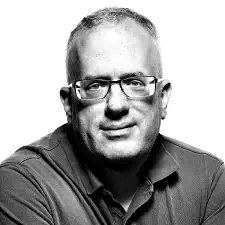
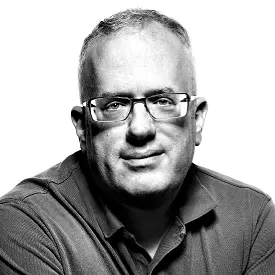
Updates

diff --git a/css/styles.css b/css/styles.css
@@ -1,1 +1,1 @@
-:root{--primary: #000000;--inverted: #ffffff;--light-grey: #948a82;--yellow: #ffe32d;--blue: #000080;--border: 3px solid var(--primary);--transition: .5s;--el-size: 4rem}*,*::before,*::after{box-sizing:border-box}html,body{font-weight:400 !important;font-style:normal;font-size:1rem;line-height:1.5;font-family:"Raleway",sans-serif;background-color:var(--light-grey)}html{scroll-behavior:smooth}a{color:var(--blue)}a:hover{text-decoration:underline !important}.center{display:flex;align-items:center;justify-content:center}.rounded-el{width:var(--el-size);height:var(--el-size)}.scrollToTop{cursor:pointer;bottom:50rem;right:1.25rem;z-index:100000;border:var(--border);background-color:var(--yellow);visibility:hidden;opacity:0;transform:translateY(30%);transition:var(--transition);box-shadow:0 .625rem 3.125rem .625rem rgba(0,0,0,.5)}.scrollToTop.active{visibility:visible;opacity:1;bottom:25%}.scrollToTop:hover{background-color:var(--inverted)}#main{margin:0 auto;overflow-x:hidden;background-color:var(--light-grey)}.hero-container{border:var(--border);background-color:var(--inverted);box-shadow:0 .625rem 3.125rem .625rem rgba(0,0,0,.5)}.hero-container img{width:200px;object-fit:cover;border:var(--border);box-shadow:0 .625rem 3.125rem .625rem rgba(0,0,0,.5)}.hero-container .hero-caption{color:var(--primary);border-top:var(--border);background-color:var(--yellow);border-bottom-left-radius:.85rem;border-bottom-right-radius:.85rem}.main-timeline-content:after{content:"";top:0;left:50%;bottom:0;width:.1875rem;margin-left:-0.1875rem;position:absolute;background-color:var(--primary)}.main-timeline-content .timeline-content{width:50%}.main-timeline-content .timeline-content .timeline-dot{content:"";width:1.0625rem;height:1.0625rem;top:.875rem;right:-0.4375rem;z-index:1;background-color:var(--primary)}.main-timeline-content .timeline-content.left-side{left:0;padding:0 2.5rem 1.25rem 0}.main-timeline-content .timeline-content.left-side .card:before{right:-0.625rem}.main-timeline-content .timeline-content.right-side{left:50%;padding:0 0 1.25rem 2.5rem}.main-timeline-content .timeline-content.right-side .timeline-dot{left:-0.625rem}.main-timeline-content .timeline-content.right-side .card:before{left:-0.625rem;transform:rotateY(180deg)}.main-timeline-content .timeline-content.left-side .card,.main-timeline-content .timeline-content.right-side .card{border:.1875rem solid var(--primary);background-color:var(--inverted)}.main-timeline-content .timeline-content.left-side .card:before,.main-timeline-content .timeline-content.right-side .card:before{content:" ";position:absolute;top:.625rem;z-index:1;border:var(--border);border-width:.625rem 0 .625rem .625rem;border-color:rgba(0,0,0,0) rgba(0,0,0,0) rgba(0,0,0,0) var(--primary)}.main-timeline-content .timeline-content.left-side .card .card-header,.main-timeline-content .timeline-content.right-side .card .card-header{background-color:var(--yellow);border-color:var(--primary);border-width:.1875rem;line-height:1}.main-timeline-content .timeline-content.left-side .card .card-body,.main-timeline-content .timeline-content.right-side .card .card-body{padding:.5rem 1rem}blockquote p,blockquote cite{color:var(--primary)}blockquote span{color:var(--inverted)}blockquote .quote-left,blockquote .quote-right{width:2rem;height:2rem}blockquote .quote-left{left:-1rem;top:-1rem}blockquote .quote-right{right:-1rem;bottom:-1rem}.socials-container{overflow:hidden}.socials-container h3{color:var(--primary)}.socials-container .social-links{max-width:30rem;gap:.5rem}.socials-container .social-links div{background-color:var(--inverted);border:.1875rem solid var(--yellow);height:var(--el-size);width:var(--el-size);transition:all .5s ease-out}.socials-container .social-links div.website-link .link-dark,.socials-container .social-links div.website-link .link-light,.socials-container .social-links div.website-link .fb-logo-dark,.socials-container .social-links div.website-link .fb-logo-light,.socials-container .social-links div.website-link .fa-twitter,.socials-container .social-links div.website-link .fa-instagram,.socials-container .social-links div.fb-logo .link-dark,.socials-container .social-links div.fb-logo .link-light,.socials-container .social-links div.fb-logo .fb-logo-dark,.socials-container .social-links div.fb-logo .fb-logo-light,.socials-container .social-links div.fb-logo .fa-twitter,.socials-container .social-links div.fb-logo .fa-instagram,.socials-container .social-links div.twitter-logo .link-dark,.socials-container .social-links div.twitter-logo .link-light,.socials-container .social-links div.twitter-logo .fb-logo-dark,.socials-container .social-links div.twitter-logo .fb-logo-light,.socials-container .social-links div.twitter-logo .fa-twitter,.socials-container .social-links div.twitter-logo .fa-instagram,.socials-container .social-links div.instagram-logo .link-dark,.socials-container .social-links div.instagram-logo .link-light,.socials-container .social-links div.instagram-logo .fb-logo-dark,.socials-container .social-links div.instagram-logo .fb-logo-light,.socials-container .social-links div.instagram-logo .fa-twitter,.socials-container .social-links div.instagram-logo .fa-instagram,.socials-container .social-links div.mastodon-logo .link-dark,.socials-container .social-links div.mastodon-logo .link-light,.socials-container .social-links div.mastodon-logo .fb-logo-dark,.socials-container .social-links div.mastodon-logo .fb-logo-light,.socials-container .social-links div.mastodon-logo .fa-twitter,.socials-container .social-links div.mastodon-logo .fa-instagram{width:2.5rem;height:2.5rem}.socials-container .social-links div.website-link .link-light,.socials-container .social-links div.website-link .fb-logo-light,.socials-container .social-links div.website-link .twitter-light,.socials-container .social-links div.website-link .instagram-light,.socials-container .social-links div.website-link .mastodon-light,.socials-container .social-links div.fb-logo .link-light,.socials-container .social-links div.fb-logo .fb-logo-light,.socials-container .social-links div.fb-logo .twitter-light,.socials-container .social-links div.fb-logo .instagram-light,.socials-container .social-links div.fb-logo .mastodon-light,.socials-container .social-links div.twitter-logo .link-light,.socials-container .social-links div.twitter-logo .fb-logo-light,.socials-container .social-links div.twitter-logo .twitter-light,.socials-container .social-links div.twitter-logo .instagram-light,.socials-container .social-links div.twitter-logo .mastodon-light,.socials-container .social-links div.instagram-logo .link-light,.socials-container .social-links div.instagram-logo .fb-logo-light,.socials-container .social-links div.instagram-logo .twitter-light,.socials-container .social-links div.instagram-logo .instagram-light,.socials-container .social-links div.instagram-logo .mastodon-light,.socials-container .social-links div.mastodon-logo .link-light,.socials-container .social-links div.mastodon-logo .fb-logo-light,.socials-container .social-links div.mastodon-logo .twitter-light,.socials-container .social-links div.mastodon-logo .instagram-light,.socials-container .social-links div.mastodon-logo .mastodon-light{display:none}.socials-container .social-links div.website-link:hover .link-dark,.socials-container .social-links div.website-link:hover .fb-logo-dark,.socials-container .social-links div.website-link:hover .twitter-dark,.socials-container .social-links div.website-link:hover .instagram-dark,.socials-container .social-links div.website-link:hover .mastodon-dark,.socials-container .social-links div.fb-logo:hover .link-dark,.socials-container .social-links div.fb-logo:hover .fb-logo-dark,.socials-container .social-links div.fb-logo:hover .twitter-dark,.socials-container .social-links div.fb-logo:hover .instagram-dark,.socials-container .social-links div.fb-logo:hover .mastodon-dark,.socials-container .social-links div.twitter-logo:hover .link-dark,.socials-container .social-links div.twitter-logo:hover .fb-logo-dark,.socials-container .social-links div.twitter-logo:hover .twitter-dark,.socials-container .social-links div.twitter-logo:hover .instagram-dark,.socials-container .social-links div.twitter-logo:hover .mastodon-dark,.socials-container .social-links div.instagram-logo:hover .link-dark,.socials-container .social-links div.instagram-logo:hover .fb-logo-dark,.socials-container .social-links div.instagram-logo:hover .twitter-dark,.socials-container .social-links div.instagram-logo:hover .instagram-dark,.socials-container .social-links div.instagram-logo:hover .mastodon-dark,.socials-container .social-links div.mastodon-logo:hover .link-dark,.socials-container .social-links div.mastodon-logo:hover .fb-logo-dark,.socials-container .social-links div.mastodon-logo:hover .twitter-dark,.socials-container .social-links div.mastodon-logo:hover .instagram-dark,.socials-container .social-links div.mastodon-logo:hover .mastodon-dark{display:none}.socials-container .social-links div.website-link:hover .link-light,.socials-container .social-links div.website-link:hover .fb-logo-light,.socials-container .social-links div.website-link:hover .twitter-light,.socials-container .social-links div.website-link:hover .instagram-light,.socials-container .social-links div.website-link:hover .mastodon-light,.socials-container .social-links div.fb-logo:hover .link-light,.socials-container .social-links div.fb-logo:hover .fb-logo-light,.socials-container .social-links div.fb-logo:hover .twitter-light,.socials-container .social-links div.fb-logo:hover .instagram-light,.socials-container .social-links div.fb-logo:hover .mastodon-light,.socials-container .social-links div.twitter-logo:hover .link-light,.socials-container .social-links div.twitter-logo:hover .fb-logo-light,.socials-container .social-links div.twitter-logo:hover .twitter-light,.socials-container .social-links div.twitter-logo:hover .instagram-light,.socials-container .social-links div.twitter-logo:hover .mastodon-light,.socials-container .social-links div.instagram-logo:hover .link-light,.socials-container .social-links div.instagram-logo:hover .fb-logo-light,.socials-container .social-links div.instagram-logo:hover .twitter-light,.socials-container .social-links div.instagram-logo:hover .instagram-light,.socials-container .social-links div.instagram-logo:hover .mastodon-light,.socials-container .social-links div.mastodon-logo:hover .link-light,.socials-container .social-links div.mastodon-logo:hover .fb-logo-light,.socials-container .social-links div.mastodon-logo:hover .twitter-light,.socials-container .social-links div.mastodon-logo:hover .instagram-light,.socials-container .social-links div.mastodon-logo:hover .mastodon-light{display:flex}.socials-container .social-links div:hover{transform:translateY(-25%);transition:var(--transition);background-color:var(--primary)}.socials-container .social-links div a{padding:.75rem;color:var(--primary)}.socials-container .wiki-ref .wiki-link{color:var(--inverted)}.fade-in-right[data-scroll]{opacity:0;will-change:transform,scale,opacity;transform:translateY(6rem) scale(0.93);transition:all 1.5s cubic-bezier(0.165, 0.84, 0.44, 1)}.fade-in-left[data-scroll]{opacity:0;will-change:transform,scale,opacity;transform:translatex(-6rem) scale(0.93);transition:all 1.5s cubic-bezier(0.165, 0.84, 0.44, 1)}.fade-in-right[data-scroll=in],.fade-in-left[data-scroll=in]{opacity:1;transform:translateY(0) scale(1)}#footer{background-color:var(--yellow);border:var(--border)}#footer p{color:var(--primary)}#footer p a{color:var(--blue)}@media(max-width: 767px){#main h1.fs-2,#main p.fs-2,#main span.fs-2{font-size:1.5rem !important}#main .hero-caption .lead{font-size:1.125rem !important}#main .main-timeline-content:after{left:.375rem}#main .main-timeline-content .timeline-content{width:100%;padding-left:1.875rem;padding-right:0}#main .main-timeline-content .timeline-content .timeline-dot{left:-0.25rem}#main .main-timeline-content .timeline-content:before{left:2.875rem;border:var(--border);border-width:.625rem .625rem .625rem 0;border-color:rgba(0,0,0,0) var(--primary) rgba(0,0,0,0) rgba(0,0,0,0)}#main .main-timeline-content .timeline-content.left-side .card:before{right:100%;transform:rotateY(180deg)}#main .main-timeline-content .timeline-content.right-side{left:0%}#main .main-timeline-content .timeline-content.left-side::after,#main .main-timeline-content .timeline-content.right-side::after{left:-0.5rem}#main .socials-container .social-links div{width:3rem;height:3rem}#main .socials-container .social-links div.website-link .link-light,#main .socials-container .social-links div.website-link .link-dark{width:1.5rem;height:1.5rem}#main .socials-container .social-links div.fb-logo .fb-logo-light,#main .socials-container .social-links div.fb-logo .fb-logo-dark{width:2rem;height:2rem}#main .socials-container .social-links div a{padding:.5rem}}@media(min-width: 768px){p.fs-6{font-size:1.25rem !important}h2.small,span.small{font-size:1.125rem !important}.clock-icon{margin-bottom:.25rem}.social-links{gap:2rem !important}}@media(min-width: 1200px){p.fs-2,h3.fs-2{font-size:1.5rem !important}}
+:root{--primary: #000000;--inverted: #ffffff;--light-grey: #948a82;--yellow: #ffe32d;--blue: #000080;--border: 3px solid var(--primary);--transition: .5s;--el-size: 4rem}*,*::before,*::after{box-sizing:border-box}html,body{font-weight:400 !important;font-style:normal;font-size:1rem;line-height:1.5;font-family:"Raleway",sans-serif;background-color:var(--light-grey)}html{scroll-behavior:smooth}a{color:var(--blue)}a:hover{text-decoration:underline !important}.center{display:flex;align-items:center;justify-content:center}.rounded-el{width:var(--el-size);height:var(--el-size)}.scrollToTop{cursor:pointer;bottom:50rem;right:1.25rem;z-index:100000;border:var(--border);background-color:var(--yellow);visibility:hidden;opacity:0;transform:translateY(30%);transition:var(--transition);box-shadow:0 .625rem 3.125rem .625rem rgba(0,0,0,.5)}.scrollToTop.active{visibility:visible;opacity:1;bottom:25%}.scrollToTop:hover{background-color:var(--inverted)}#main{margin:0 auto;overflow-x:hidden;background-color:var(--light-grey)}.hero-container{border:var(--border);background-color:var(--inverted);box-shadow:0 .625rem 3.125rem .625rem rgba(0,0,0,.5)}.hero-container img{width:250px;object-fit:cover;border:var(--border);box-shadow:0 .625rem 3.125rem .625rem rgba(0,0,0,.5)}.hero-container .hero-caption{color:var(--primary);border-top:var(--border);background-color:var(--yellow);border-bottom-left-radius:.85rem;border-bottom-right-radius:.85rem}.main-timeline-content:after{content:"";top:0;left:50%;bottom:0;width:.1875rem;margin-left:-0.1875rem;position:absolute;background-color:var(--primary)}.main-timeline-content .timeline-content{width:50%}.main-timeline-content .timeline-content .timeline-dot{content:"";width:1.0625rem;height:1.0625rem;top:.875rem;right:-0.4375rem;z-index:1;background-color:var(--primary)}.main-timeline-content .timeline-content.left-side{left:0;padding:0 2.5rem 1.25rem 0}.main-timeline-content .timeline-content.left-side .card:before{right:-0.625rem}.main-timeline-content .timeline-content.right-side{left:50%;padding:0 0 1.25rem 2.5rem}.main-timeline-content .timeline-content.right-side .timeline-dot{left:-0.625rem}.main-timeline-content .timeline-content.right-side .card:before{left:-0.625rem;transform:rotateY(180deg)}.main-timeline-content .timeline-content.left-side .card,.main-timeline-content .timeline-content.right-side .card{border:.1875rem solid var(--primary);background-color:var(--inverted)}.main-timeline-content .timeline-content.left-side .card:before,.main-timeline-content .timeline-content.right-side .card:before{content:" ";position:absolute;top:.625rem;z-index:1;border:var(--border);border-width:.625rem 0 .625rem .625rem;border-color:rgba(0,0,0,0) rgba(0,0,0,0) rgba(0,0,0,0) var(--primary)}.main-timeline-content .timeline-content.left-side .card .card-header,.main-timeline-content .timeline-content.right-side .card .card-header{background-color:var(--yellow);border-color:var(--primary);border-width:.1875rem;line-height:1}.main-timeline-content .timeline-content.left-side .card .card-body,.main-timeline-content .timeline-content.right-side .card .card-body{padding:.5rem 1rem}blockquote p,blockquote cite{color:var(--primary)}blockquote span{color:var(--inverted)}blockquote .quote-left,blockquote .quote-right{width:2rem;height:2rem}blockquote .quote-left{left:-1rem;top:-1rem}blockquote .quote-right{right:-1rem;bottom:-1rem}.socials-container{overflow:hidden}.socials-container h3{color:var(--primary)}.socials-container .social-links{max-width:30rem;gap:.5rem}.socials-container .social-links div{background-color:var(--inverted);border:.1875rem solid var(--yellow);height:var(--el-size);width:var(--el-size);transition:all .5s ease-out}.socials-container .social-links div.website-link .link-dark,.socials-container .social-links div.website-link .link-light,.socials-container .social-links div.website-link .fb-logo-dark,.socials-container .social-links div.website-link .fb-logo-light,.socials-container .social-links div.website-link .fa-twitter,.socials-container .social-links div.website-link .fa-instagram,.socials-container .social-links div.fb-logo .link-dark,.socials-container .social-links div.fb-logo .link-light,.socials-container .social-links div.fb-logo .fb-logo-dark,.socials-container .social-links div.fb-logo .fb-logo-light,.socials-container .social-links div.fb-logo .fa-twitter,.socials-container .social-links div.fb-logo .fa-instagram,.socials-container .social-links div.twitter-logo .link-dark,.socials-container .social-links div.twitter-logo .link-light,.socials-container .social-links div.twitter-logo .fb-logo-dark,.socials-container .social-links div.twitter-logo .fb-logo-light,.socials-container .social-links div.twitter-logo .fa-twitter,.socials-container .social-links div.twitter-logo .fa-instagram,.socials-container .social-links div.instagram-logo .link-dark,.socials-container .social-links div.instagram-logo .link-light,.socials-container .social-links div.instagram-logo .fb-logo-dark,.socials-container .social-links div.instagram-logo .fb-logo-light,.socials-container .social-links div.instagram-logo .fa-twitter,.socials-container .social-links div.instagram-logo .fa-instagram,.socials-container .social-links div.mastodon-logo .link-dark,.socials-container .social-links div.mastodon-logo .link-light,.socials-container .social-links div.mastodon-logo .fb-logo-dark,.socials-container .social-links div.mastodon-logo .fb-logo-light,.socials-container .social-links div.mastodon-logo .fa-twitter,.socials-container .social-links div.mastodon-logo .fa-instagram{width:2.5rem;height:2.5rem}.socials-container .social-links div.website-link .link-light,.socials-container .social-links div.website-link .fb-logo-light,.socials-container .social-links div.website-link .twitter-light,.socials-container .social-links div.website-link .instagram-light,.socials-container .social-links div.website-link .mastodon-light,.socials-container .social-links div.fb-logo .link-light,.socials-container .social-links div.fb-logo .fb-logo-light,.socials-container .social-links div.fb-logo .twitter-light,.socials-container .social-links div.fb-logo .instagram-light,.socials-container .social-links div.fb-logo .mastodon-light,.socials-container .social-links div.twitter-logo .link-light,.socials-container .social-links div.twitter-logo .fb-logo-light,.socials-container .social-links div.twitter-logo .twitter-light,.socials-container .social-links div.twitter-logo .instagram-light,.socials-container .social-links div.twitter-logo .mastodon-light,.socials-container .social-links div.instagram-logo .link-light,.socials-container .social-links div.instagram-logo .fb-logo-light,.socials-container .social-links div.instagram-logo .twitter-light,.socials-container .social-links div.instagram-logo .instagram-light,.socials-container .social-links div.instagram-logo .mastodon-light,.socials-container .social-links div.mastodon-logo .link-light,.socials-container .social-links div.mastodon-logo .fb-logo-light,.socials-container .social-links div.mastodon-logo .twitter-light,.socials-container .social-links div.mastodon-logo .instagram-light,.socials-container .social-links div.mastodon-logo .mastodon-light{display:none}.socials-container .social-links div.website-link:hover .link-dark,.socials-container .social-links div.website-link:hover .fb-logo-dark,.socials-container .social-links div.website-link:hover .twitter-dark,.socials-container .social-links div.website-link:hover .instagram-dark,.socials-container .social-links div.website-link:hover .mastodon-dark,.socials-container .social-links div.fb-logo:hover .link-dark,.socials-container .social-links div.fb-logo:hover .fb-logo-dark,.socials-container .social-links div.fb-logo:hover .twitter-dark,.socials-container .social-links div.fb-logo:hover .instagram-dark,.socials-container .social-links div.fb-logo:hover .mastodon-dark,.socials-container .social-links div.twitter-logo:hover .link-dark,.socials-container .social-links div.twitter-logo:hover .fb-logo-dark,.socials-container .social-links div.twitter-logo:hover .twitter-dark,.socials-container .social-links div.twitter-logo:hover .instagram-dark,.socials-container .social-links div.twitter-logo:hover .mastodon-dark,.socials-container .social-links div.instagram-logo:hover .link-dark,.socials-container .social-links div.instagram-logo:hover .fb-logo-dark,.socials-container .social-links div.instagram-logo:hover .twitter-dark,.socials-container .social-links div.instagram-logo:hover .instagram-dark,.socials-container .social-links div.instagram-logo:hover .mastodon-dark,.socials-container .social-links div.mastodon-logo:hover .link-dark,.socials-container .social-links div.mastodon-logo:hover .fb-logo-dark,.socials-container .social-links div.mastodon-logo:hover .twitter-dark,.socials-container .social-links div.mastodon-logo:hover .instagram-dark,.socials-container .social-links div.mastodon-logo:hover .mastodon-dark{display:none}.socials-container .social-links div.website-link:hover .link-light,.socials-container .social-links div.website-link:hover .fb-logo-light,.socials-container .social-links div.website-link:hover .twitter-light,.socials-container .social-links div.website-link:hover .instagram-light,.socials-container .social-links div.website-link:hover .mastodon-light,.socials-container .social-links div.fb-logo:hover .link-light,.socials-container .social-links div.fb-logo:hover .fb-logo-light,.socials-container .social-links div.fb-logo:hover .twitter-light,.socials-container .social-links div.fb-logo:hover .instagram-light,.socials-container .social-links div.fb-logo:hover .mastodon-light,.socials-container .social-links div.twitter-logo:hover .link-light,.socials-container .social-links div.twitter-logo:hover .fb-logo-light,.socials-container .social-links div.twitter-logo:hover .twitter-light,.socials-container .social-links div.twitter-logo:hover .instagram-light,.socials-container .social-links div.twitter-logo:hover .mastodon-light,.socials-container .social-links div.instagram-logo:hover .link-light,.socials-container .social-links div.instagram-logo:hover .fb-logo-light,.socials-container .social-links div.instagram-logo:hover .twitter-light,.socials-container .social-links div.instagram-logo:hover .instagram-light,.socials-container .social-links div.instagram-logo:hover .mastodon-light,.socials-container .social-links div.mastodon-logo:hover .link-light,.socials-container .social-links div.mastodon-logo:hover .fb-logo-light,.socials-container .social-links div.mastodon-logo:hover .twitter-light,.socials-container .social-links div.mastodon-logo:hover .instagram-light,.socials-container .social-links div.mastodon-logo:hover .mastodon-light{display:flex}.socials-container .social-links div:hover{transform:translateY(-25%);transition:var(--transition);background-color:var(--primary)}.socials-container .social-links div a{padding:.75rem;color:var(--primary)}.socials-container .wiki-ref .wiki-link{color:var(--inverted)}.fade-in-right[data-scroll]{opacity:0;will-change:transform,scale,opacity;transform:translateY(6rem) scale(0.93);transition:all 1.5s cubic-bezier(0.165, 0.84, 0.44, 1)}.fade-in-left[data-scroll]{opacity:0;will-change:transform,scale,opacity;transform:translatex(-6rem) scale(0.93);transition:all 1.5s cubic-bezier(0.165, 0.84, 0.44, 1)}.fade-in-right[data-scroll=in],.fade-in-left[data-scroll=in]{opacity:1;transform:translateY(0) scale(1)}#footer{background-color:var(--yellow);border:var(--border)}#footer p{color:var(--primary)}#footer p a{color:var(--blue)}@media(max-width: 767px){#main h1.fs-2,#main p.fs-2,#main span.fs-2{font-size:1.5rem !important}#main .hero-caption .lead{font-size:1.125rem !important}#main .main-timeline-content:after{left:.375rem}#main .main-timeline-content .timeline-content{width:100%;padding-left:1.875rem;padding-right:0}#main .main-timeline-content .timeline-content .timeline-dot{left:-0.25rem}#main .main-timeline-content .timeline-content:before{left:2.875rem;border:var(--border);border-width:.625rem .625rem .625rem 0;border-color:rgba(0,0,0,0) var(--primary) rgba(0,0,0,0) rgba(0,0,0,0)}#main .main-timeline-content .timeline-content.left-side .card:before{right:100%;transform:rotateY(180deg)}#main .main-timeline-content .timeline-content.right-side{left:0%}#main .main-timeline-content .timeline-content.left-side::after,#main .main-timeline-content .timeline-content.right-side::after{left:-0.5rem}#main .socials-container .social-links div{width:3rem;height:3rem}#main .socials-container .social-links div.website-link .link-light,#main .socials-container .social-links div.website-link .link-dark{width:1.5rem;height:1.5rem}#main .socials-container .social-links div.fb-logo .fb-logo-light,#main .socials-container .social-links div.fb-logo .fb-logo-dark{width:2rem;height:2rem}#main .socials-container .social-links div a{padding:.5rem}}@media(min-width: 768px){p.fs-6{font-size:1.25rem !important}h2.small,span.small{font-size:1.125rem !important}.clock-icon{margin-bottom:.25rem}.social-links{gap:2rem !important}}@media(min-width: 1200px){p.fs-2,h3.fs-2{font-size:1.5rem !important}}
